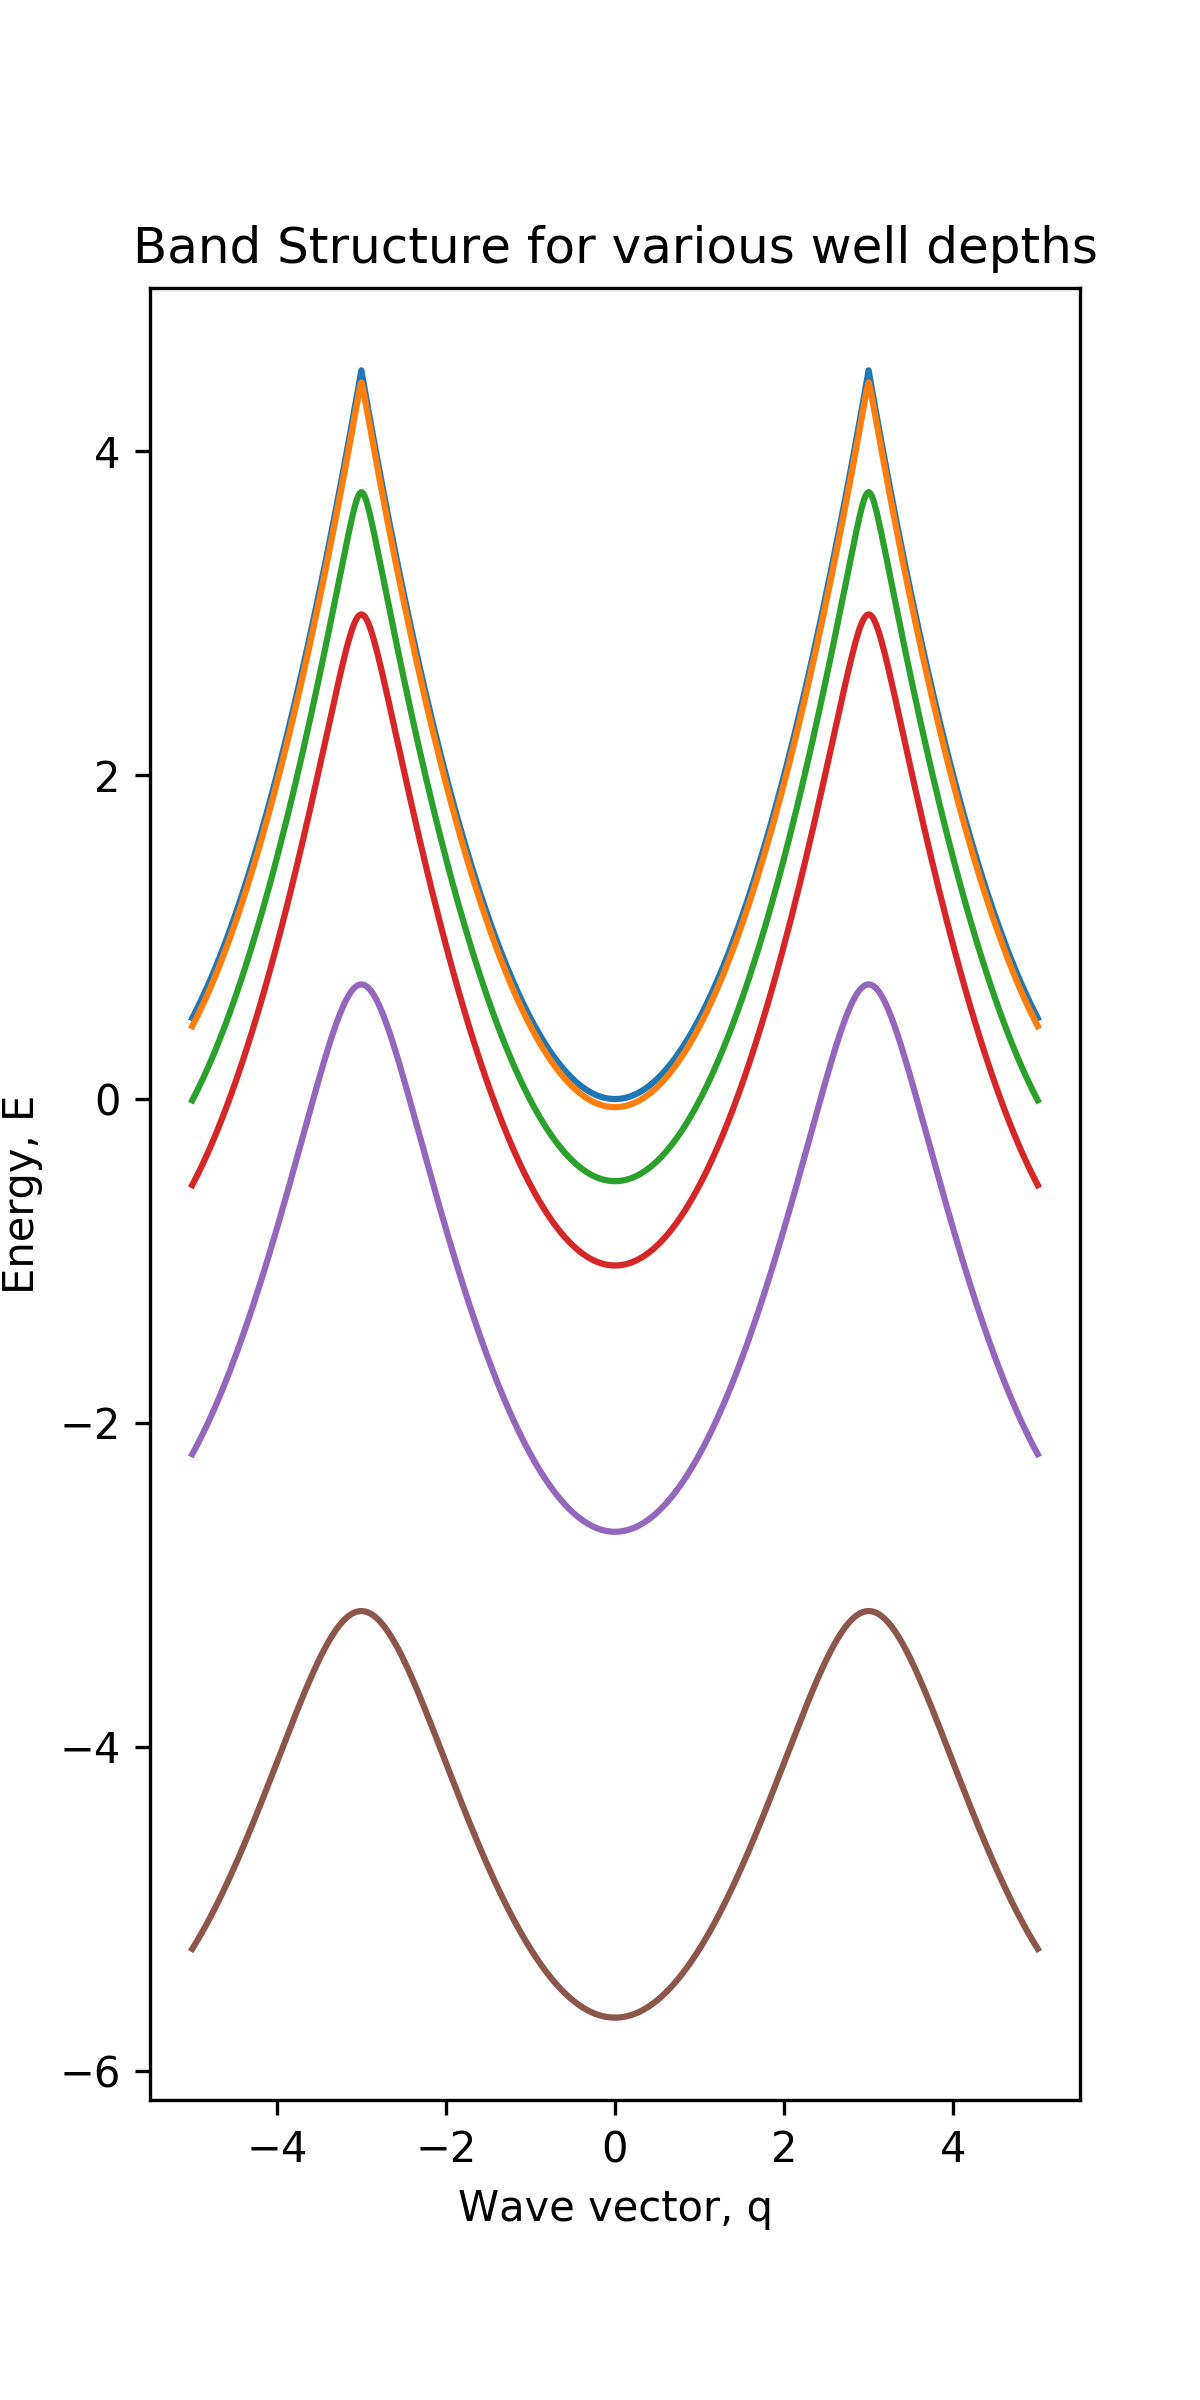
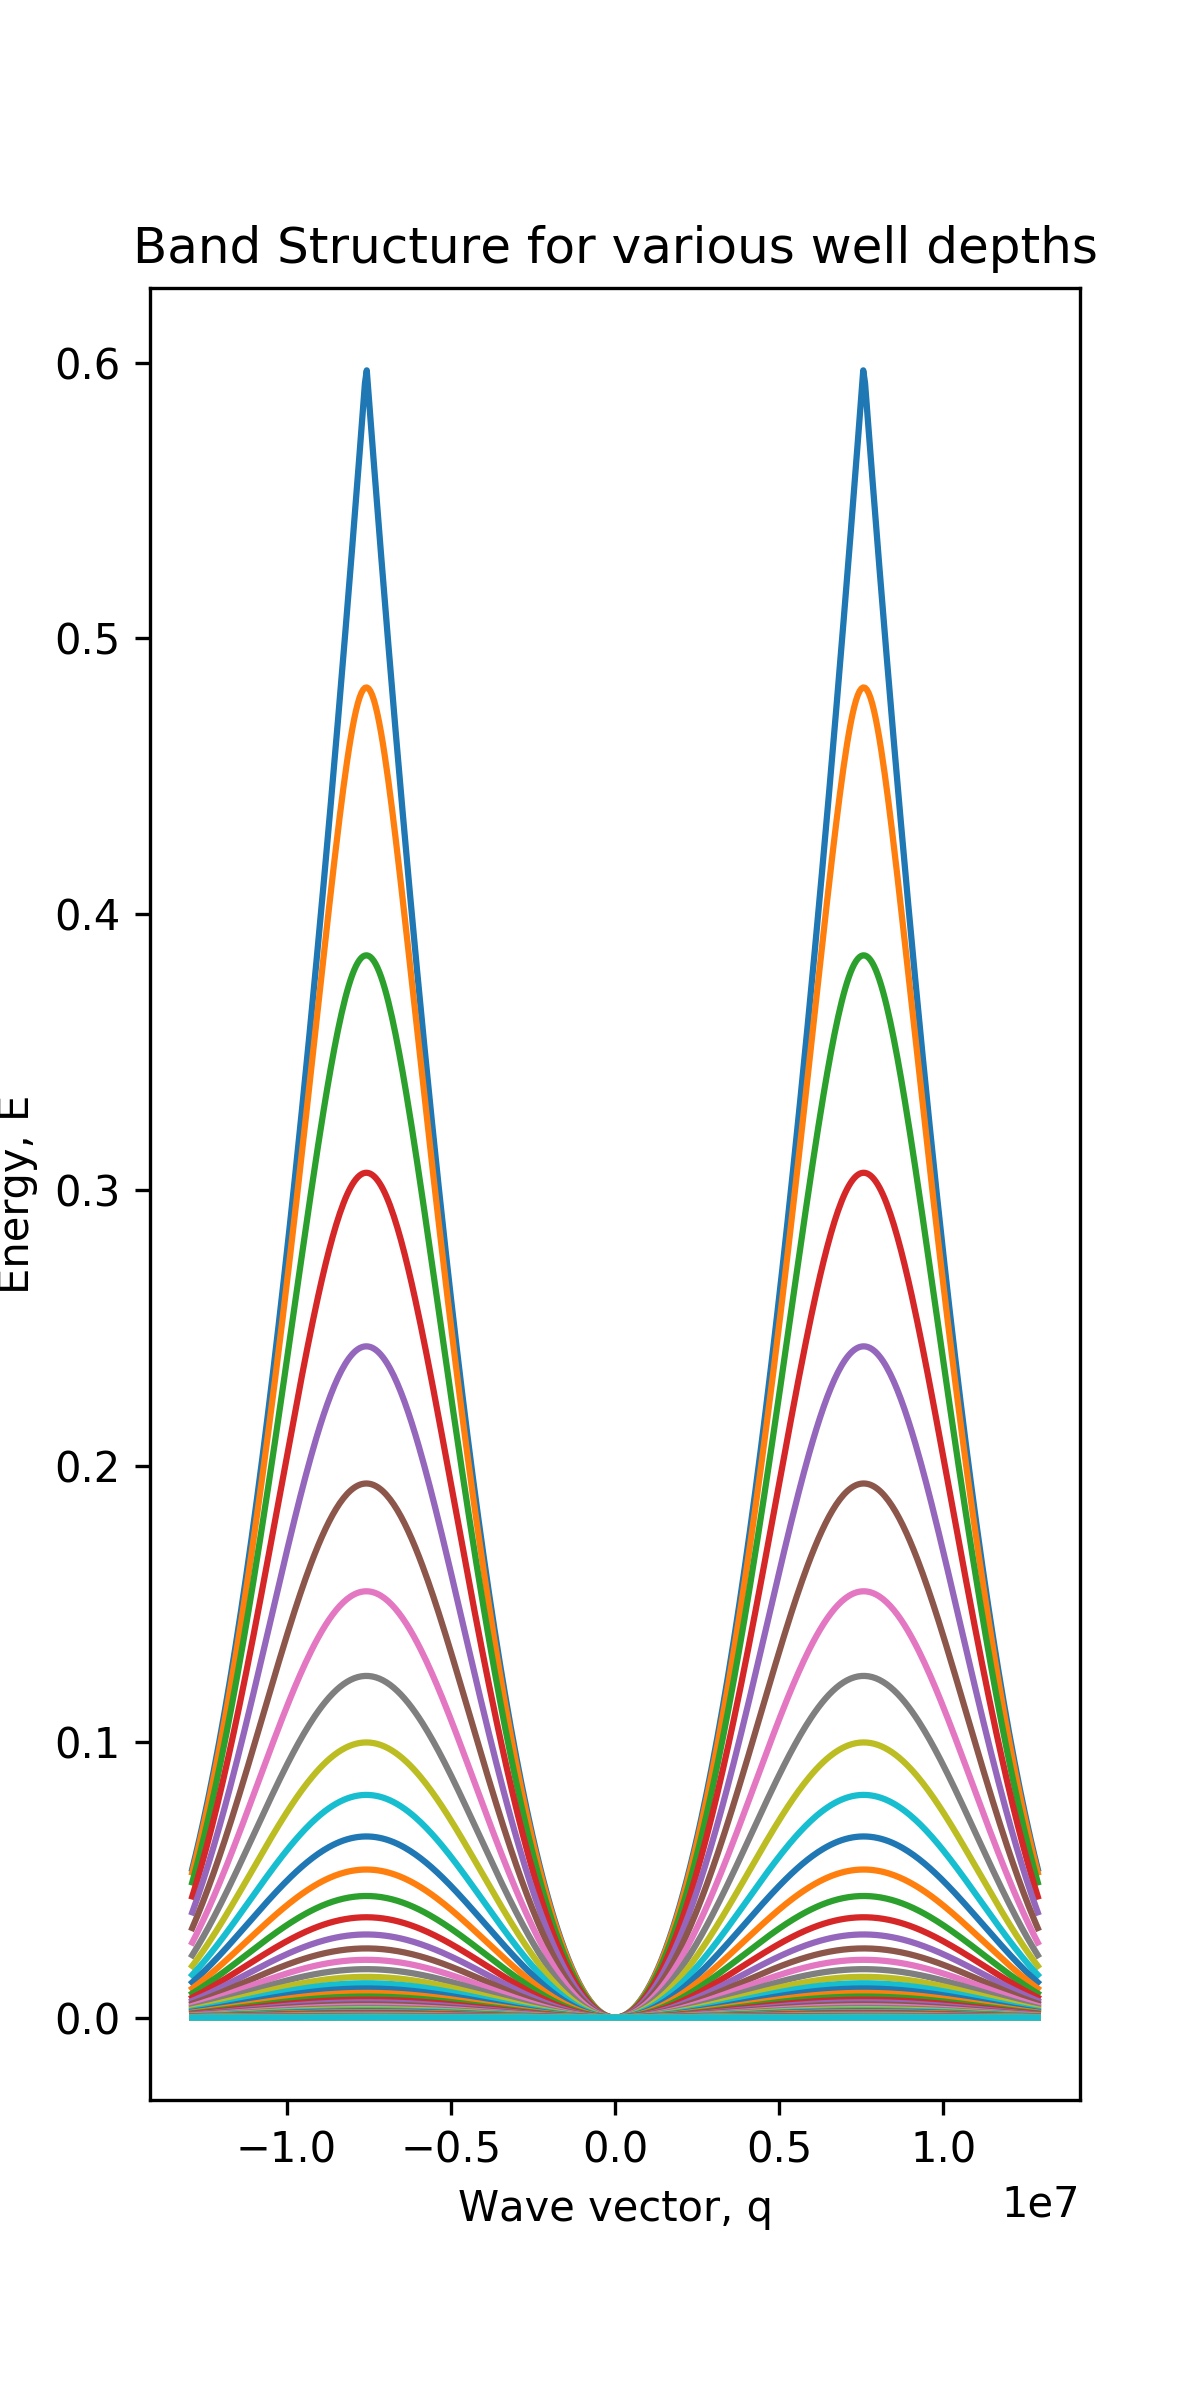
Calculated relative sizes of t, U , and w.

diff --git a/latticebandstructure.py b/latticebandstructure.py
@@ -3,10 +3,10 @@ import matplotlib.pyplot as plt
 import scipy.linalg as sp
 
 def c_d(q,l):
-    return ((q+2*l*k)**2)/(2*m) - V/2
+    return((h**2*(q+2*l*k)**2)/(2*m) - V/2)
 
 def c_o(q,l):
-    return -V/4
+    return(-V/4)
 
 def H(q):
     Hq = []
@@ -15,9 +15,9 @@ def H(q):
     for j in range(-7,8):
         for i in range(-7,8):
             if i - j == 0:
-                Hq[i+7][j+7] = c_d(q,i)
+                Hq[i+7][j+7] = c_d(q,i)/Er
             if abs(i-j) == 1:
-                Hq[i+7][j+7] = c_o(q,i)
+                Hq[i+7][j+7] = c_o(q,i)/Er
     G = np.array(Hq)
     w,vr = sp.eig(G)
 
@@ -28,35 +28,62 @@ def mkplot(v,axes):
     global V
     V = v
     E = []
-    Q = np.linspace(-5,5,471)
+    Q = np.linspace(-1.7*k,1.7*k,471)
     for q in Q:
         E.append(H(q).real)
 
-    t = 0.25*(max(E)-min(E))
-    axes.plot(Q,E)
+    t = 0.25*(max(E)-min(E))*Er/h*pi*2
+    axes.plot(Q,E-min(E))
     return(t)
 
-h=1
-m=1
-k=3
+def U(V):
+    return(((2*a*((2*h*m/pi)**0.5)*((4*V*(k**2)/m)**0.75))/h))
+
+def W(V):
+    return((4*V*k**2/m)**0.5)/pi/2
+
+
+h = 1.055*10**-34
+pi = 3.14159
+m = 87*1.67*10**-27
+k = 2*pi/(830*10**(-9))
+a = 100*0.5*10**-10
+Er = 3.663*10**-30
 
 fig1 = plt.figure(1,figsize=(4,8))
 ax1 = fig1.gca()
 ax1.set_title('Band Structure for various well depths')
 ax1.set_xlabel('Wave vector, q')
 ax1.set_ylabel('Energy, E')
-fig2 = plt.figure(2,figsize=(8,5))
+fig2 = plt.figure(figsize=(4,8))
 ax2 = fig2.gca()
 ax2.set_title('Tunnelling Constant as a funciton of well depth')
-ax2.set_xlabel('Tunnelling constant, t')
-ax2.set_ylabel('Well depth, V0')
+ax2.set_ylabel('w,t,U / Hz')
+ax2.set_xlabel('Well depth, V0')
+ax2.set_ylim(0,80000)
+fig3 = plt.figure(3)
+ax3 = fig3.gca()
+ax3.set_title('Ratio of U/t as a function of well depth')
+ax3.set_ylabel('U/t')
+ax3.set_xlabel('Well depth, V0')
+ax3.set_ylim(0,1000)
 
-Vs = [0,0.1,1,2,5,10]
+Vs = np.linspace(0,30*Er,60)
 t = []
+Ut = []
 
 for V0 in Vs:
-    t.append(mkplot(V0,ax1))
-ax2.plot(Vs,t,'x')
+    tunnel = mkplot(V0,ax1)
+    t.append(tunnel)
+    Ut.append(U(V0)/tunnel)
+
+ax2.plot(Vs/Er,t,'b')
+ax3.plot(Vs/Er,Ut,'x-')
+ax2.plot(Vs/Er,U(Vs),'r')
+ax2.plot(Vs/Er,W(Vs),'k')
+fig2.tight_layout()
+#plt.show()
 
 fig1.savefig('bandstructure.png', dpi=300)
-fig2.savefig('tunnelling.png', dpi=300)
+fig2.savefig('tUw_sizes.png', dpi=300)
+fig3.savefig('UtRatio.png', dpi=300)
